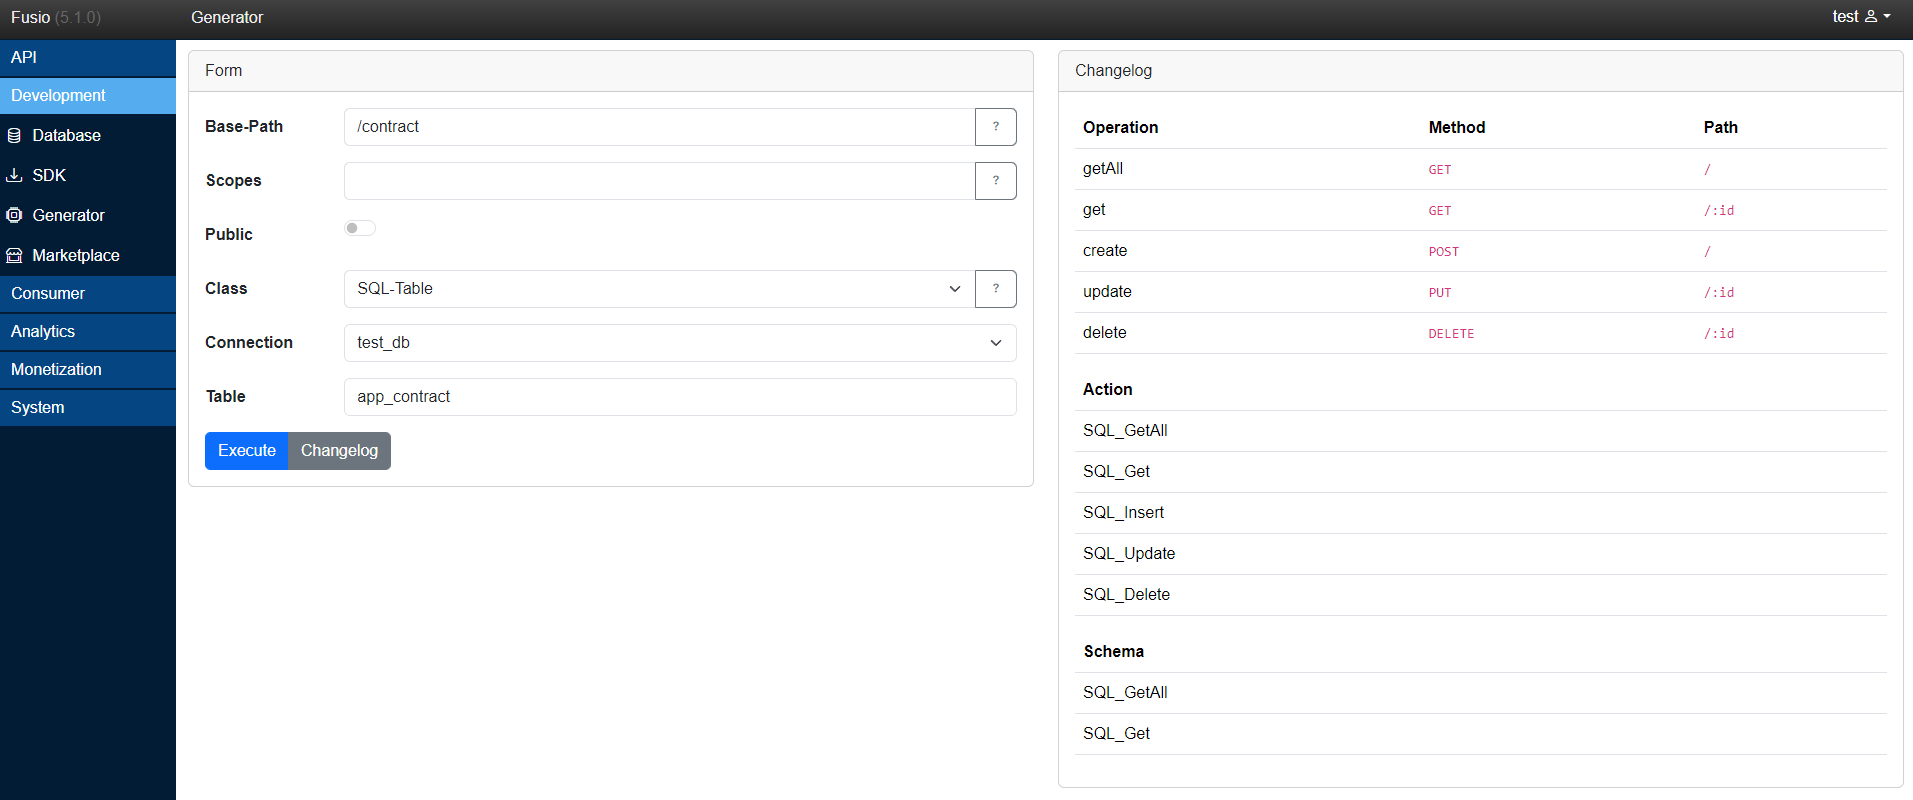
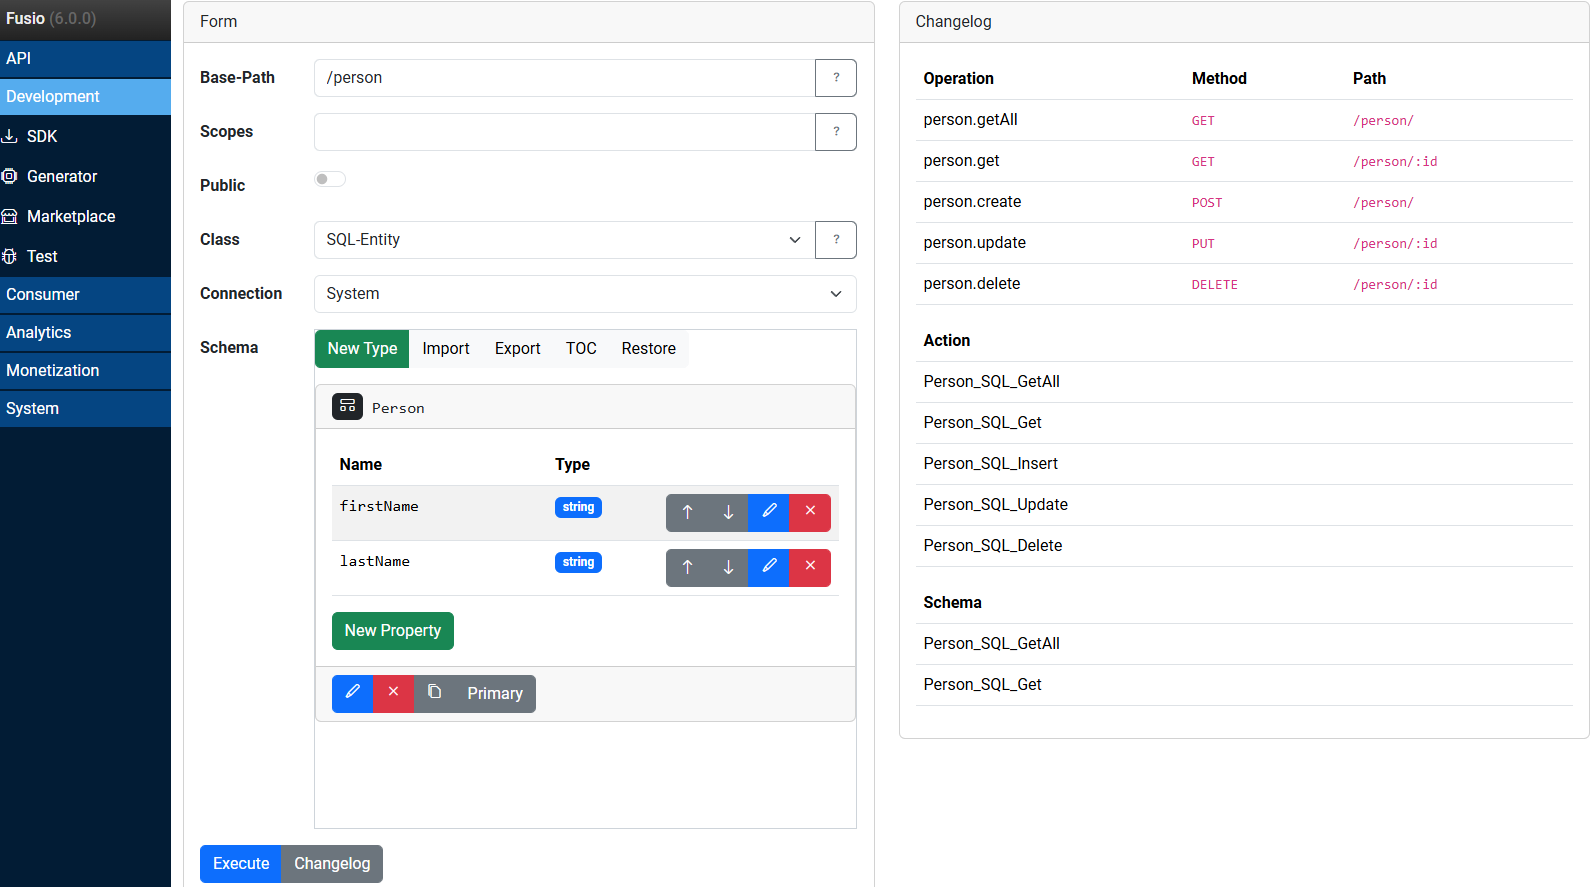
update image

diff --git a/docs/backend/development/generator.md b/docs/backend/development/generator.md
@@ -6,7 +6,7 @@ sidebar_position: 3
 
 The generator panel provides a way to automatically generate operations, actions and schemas based on a specific input.
 
-![development](/img/backend/development/database.png)
+![generator](/img/backend/development/generator.png)
 
 ## File-Directory
 
